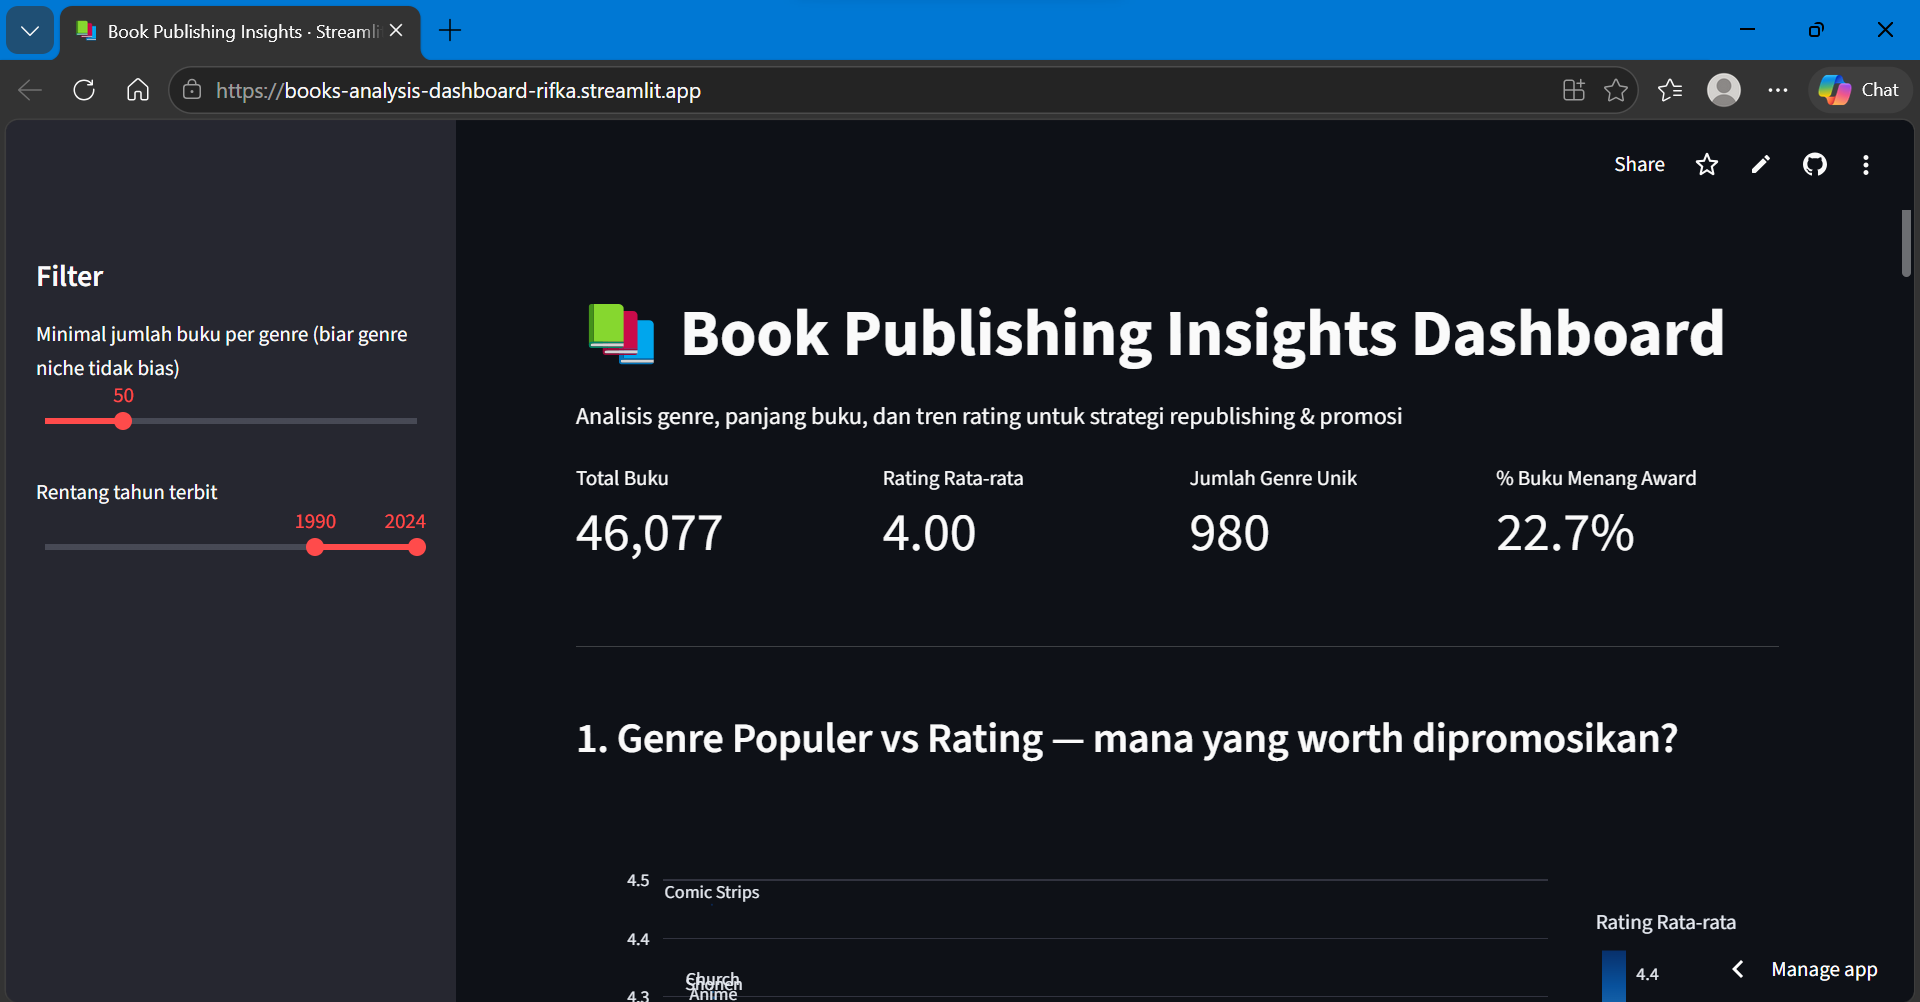
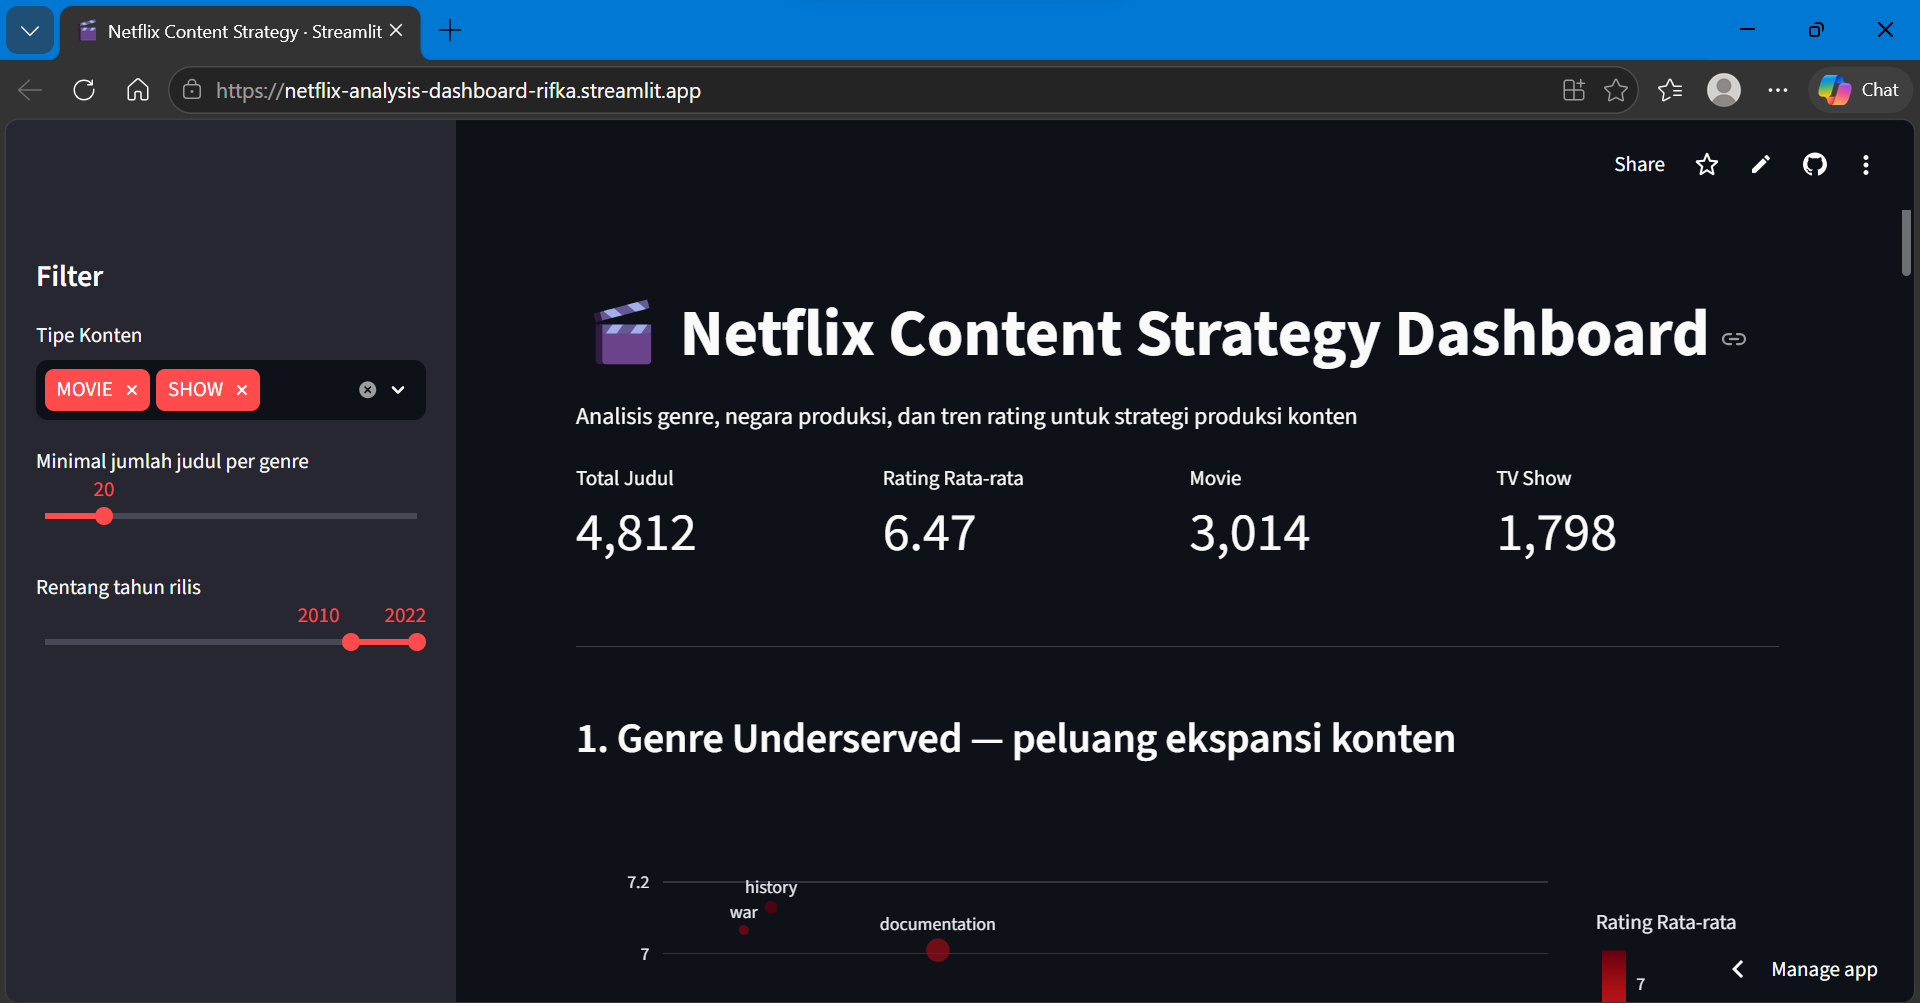
update insights

diff --git a/index.html b/index.html
@@ -626,7 +626,7 @@
         <div class="slide active">
           <div class="slide-visual">
             <!-- TODO: add a screenshot of a diagram (Use Case / Activity / Sequence) from this project -->
-            <div class="ph">[ diagram screenshot<br>Automated Essay Scoring ]</div>
+            <div class="ph">loading...</div>
           </div>
           <div class="slide-body">
             <h3>Waterfall Method Implementation for a Web-based Automated Essay Scoring App using LSTM</h3>
@@ -643,7 +643,7 @@
         <div class="slide">
           <div class="slide-visual">
             <!-- TODO: add a screenshot of a diagram/mockup from this project -->
-            <div class="ph">[ diagram screenshot<br>Academic Information System ]</div>
+            <div class="ph">loading...</div>
           </div>
           <div class="slide-body">
             <h3>Design &amp; Development of a Web-based University Academic Information System using the Prototyping Method</h3>
@@ -660,7 +660,7 @@
         <div class="slide">
           <div class="slide-visual">
             <!-- TODO: add a screenshot of a diagram from the SRS document -->
-            <div class="ph">[ diagram screenshot<br>Camera Rental System (RECAM) ]</div>
+            <div class="ph">loading...</div>
           </div>
           <div class="slide-body">
             <h3>Software Requirements Specification for a Camera Rental System (RECAM)</h3>
